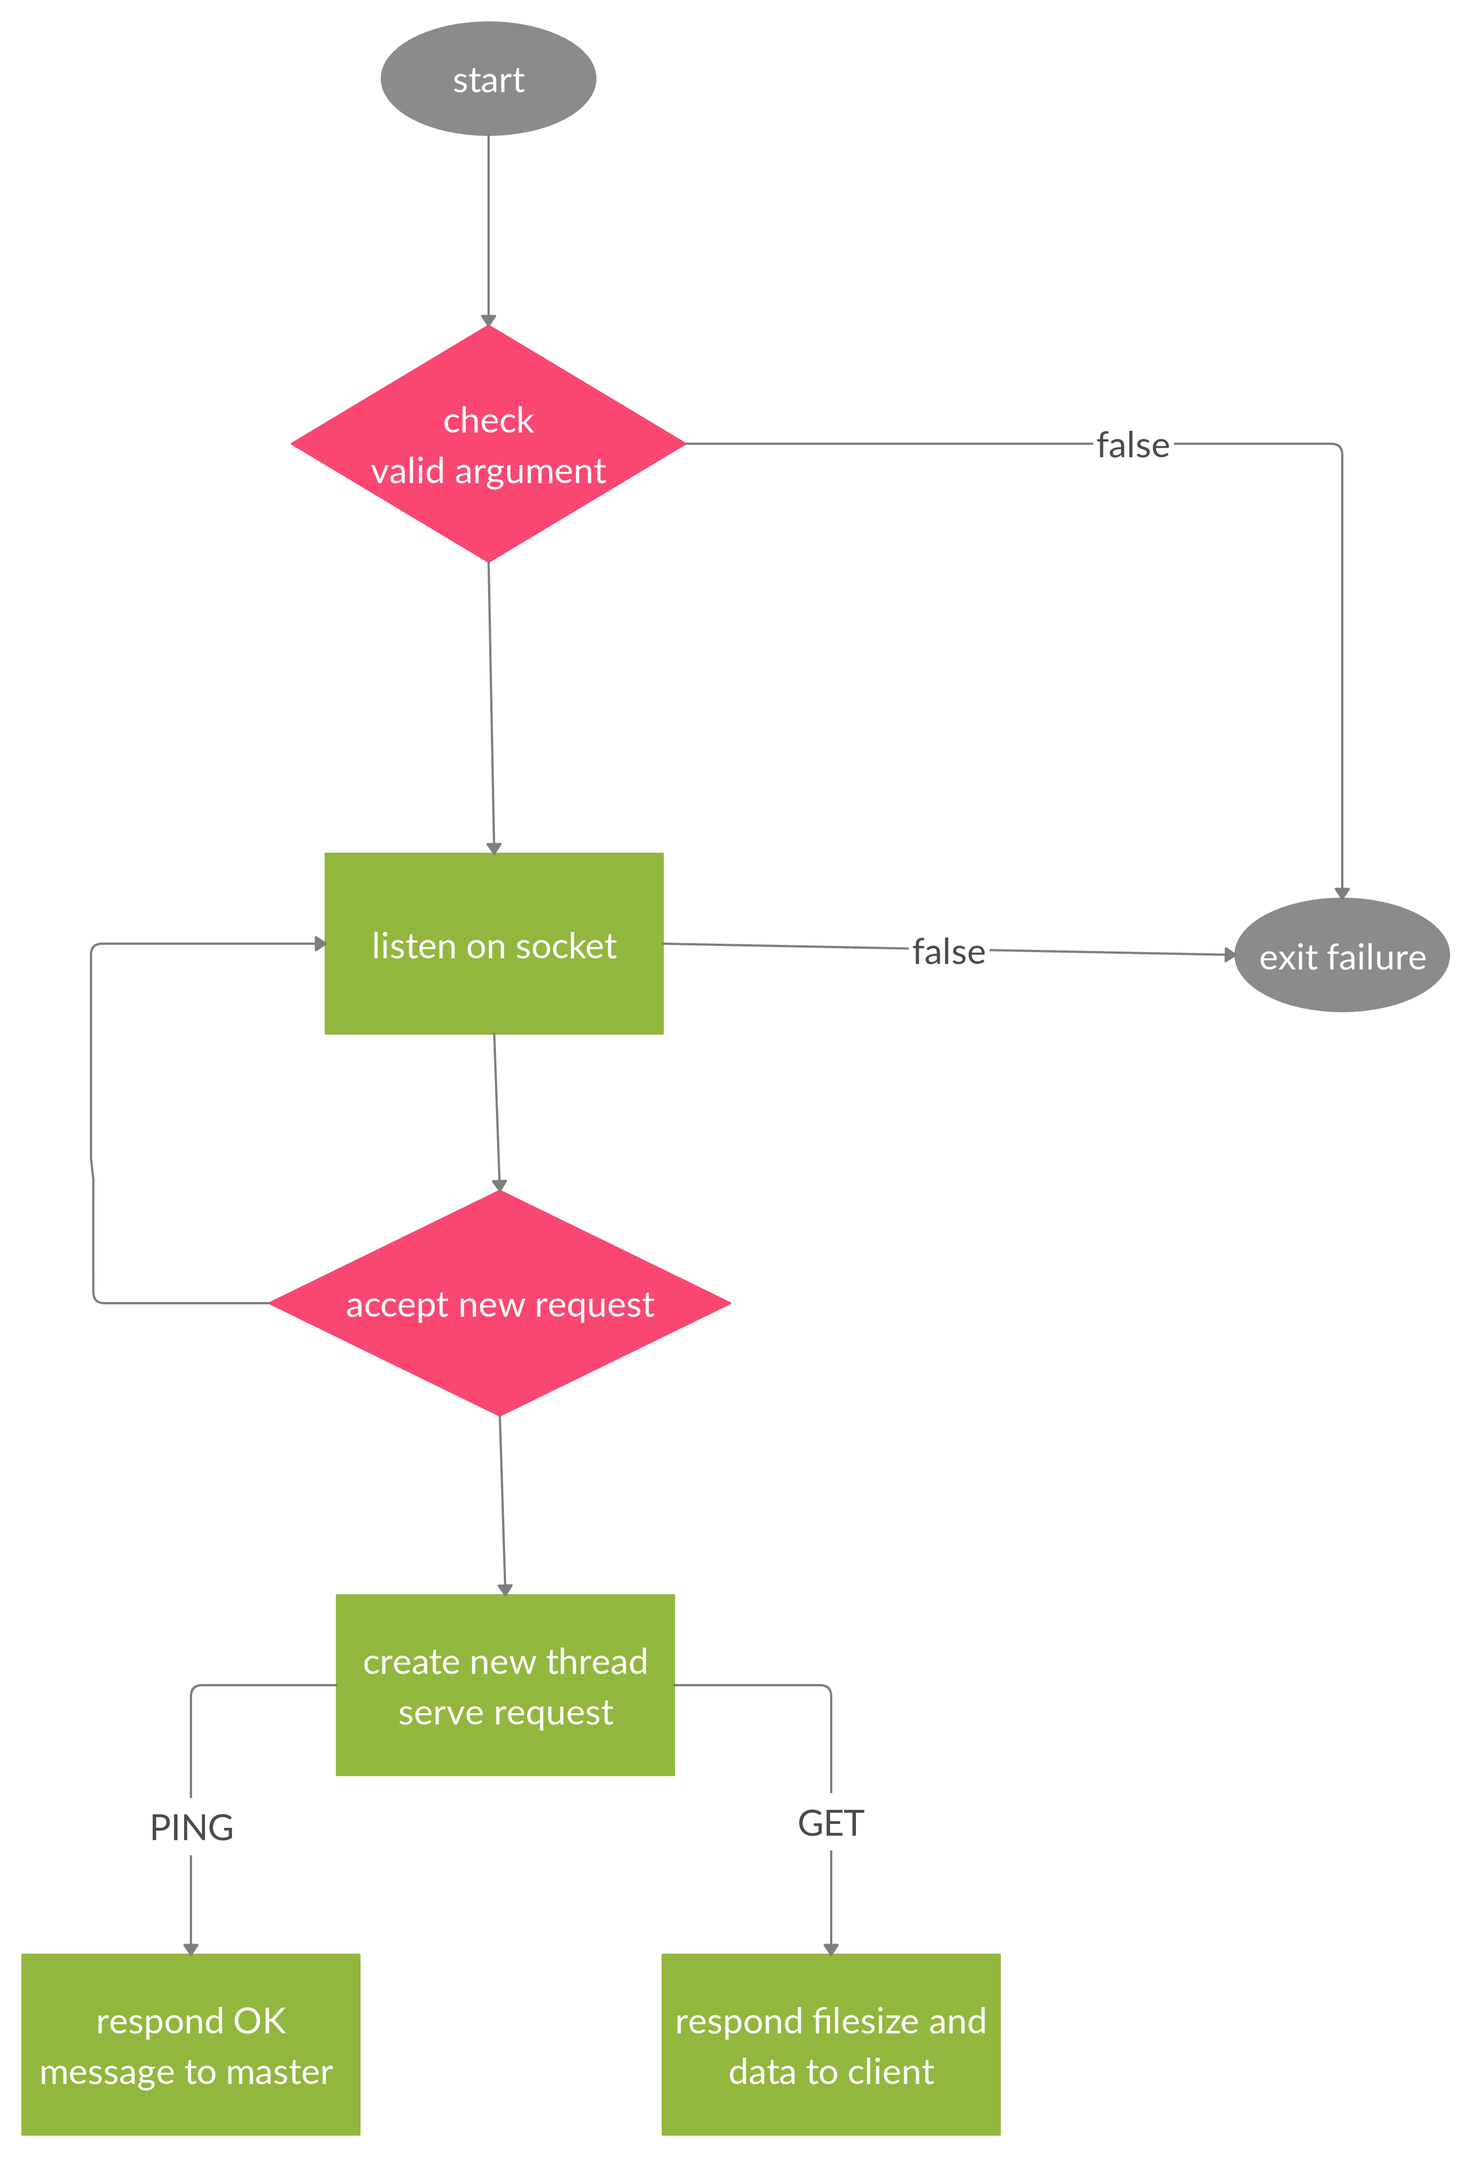
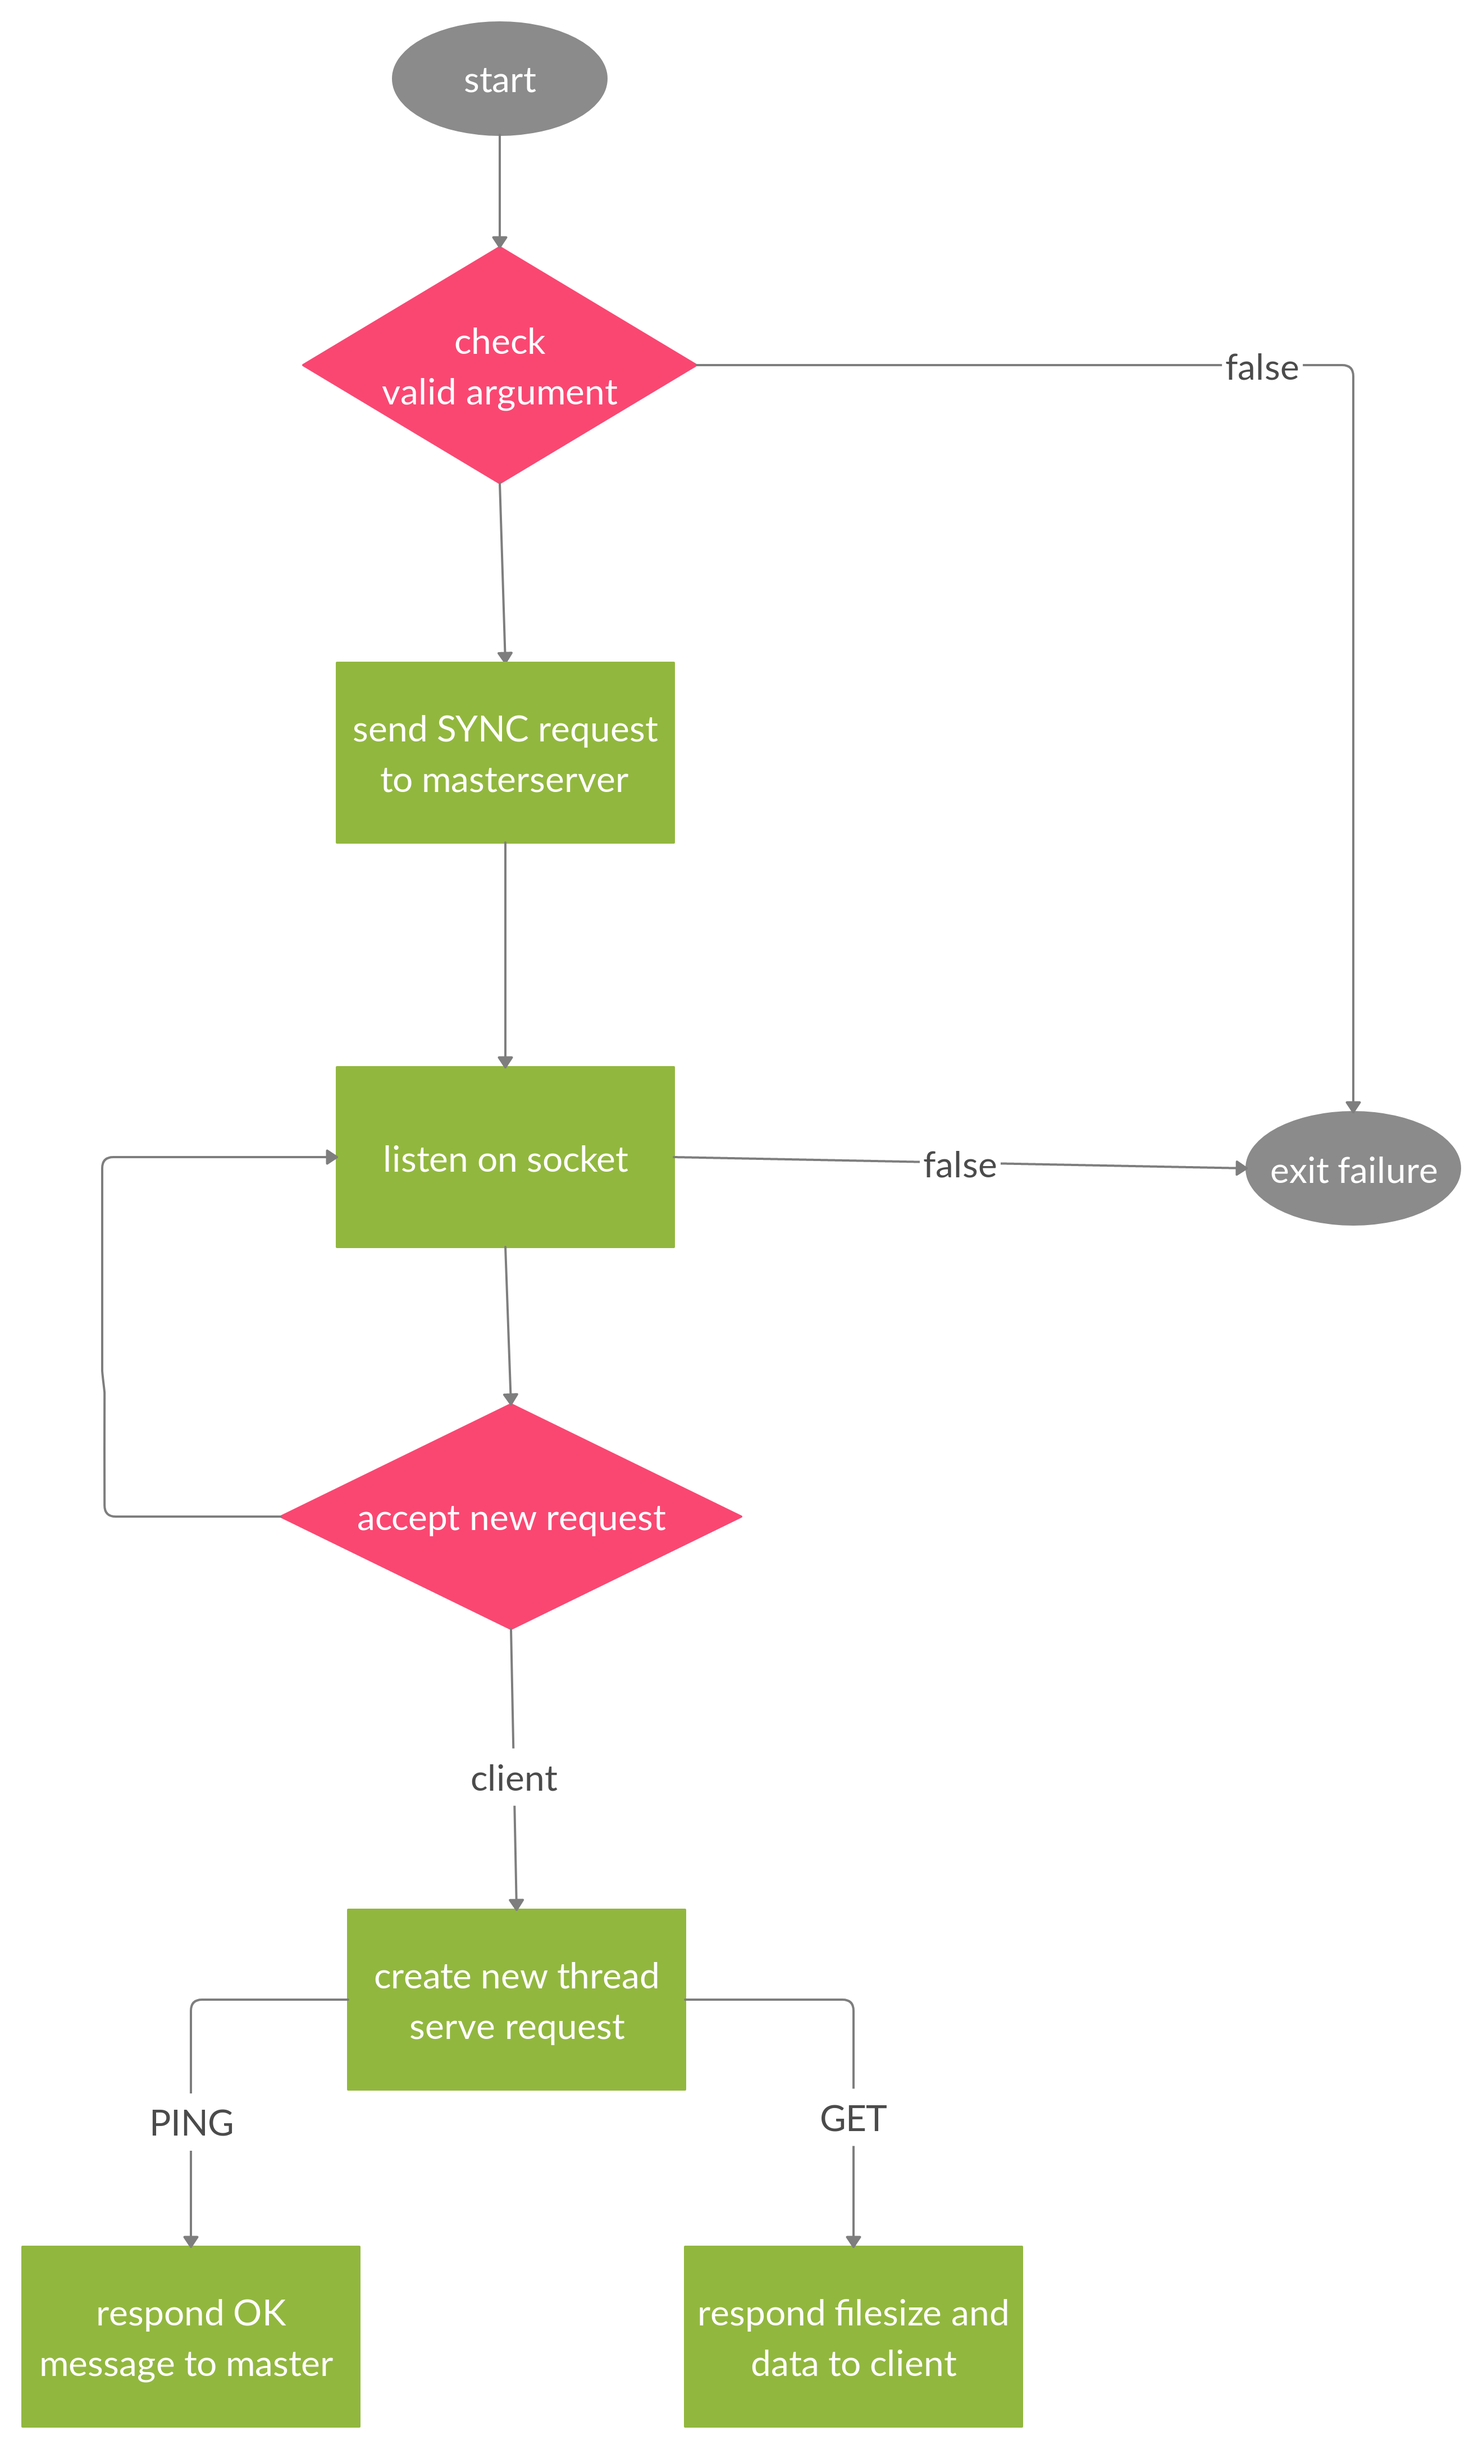
add architecture detail, explain workflow

diff --git a/fileserver-master-client-file-transfer/README.md b/fileserver-master-client-file-transfer/README.md
@@ -72,6 +72,17 @@ Thành viên nhóm
 
 ![](images/master-fileserver-client.png)
 
+- **Centralize**
+  - Xử lí tập trung, toàn bộ thông tin về  file được lưu trên master server
+  - Client connect đến master để lấy IP PORT fileserver sau đó kết nối đến để lấy data, các fileserver phân tán ở mọi nơi (scalable), tránh trường hợp masterserver bị quá tải
+  - Client có thể lấy danh sách toàn bộ các file đang được lưu thông tin trên master  
+- **Multithreading**
+  - Đồng bộ danh sách các node fileserver (linked list) bằng mutex (multithread thêm xóa sửa trên critical section)
+  - Masterserver, fileserver có khả năng xử lí nhiều request 1 lúc
+  - Client sử dụng multithread tạo nhiều connection => có khả năng tải nhiều file cùng 1 lúc
+- **check keep alive**
+  - Masterserver sử dụng 1 thread chạy vòng lặp sau mỗi 2s, gửi PING request đến ip và port, check heartbeat của từng fileserver trong list, nếu bị mất kết nối sẽ xóa fileserver ra khỏi list 
+
 ### 3.2. Thiết kế giao thức
 
 #### 3.2.1. PING method
@@ -82,7 +93,7 @@ Thành viên nhóm
 
 ![](images/SYNC.png)
 
-#### 3.2.3. INFO pmethod
+#### 3.2.3. INFO method
 
 ![](images/INFO.png)
 
@@ -97,22 +108,41 @@ Thành viên nhóm
 ### 3.3. Chi tiết vận hành
 
 #### 3.3.1 Master
-<<<<<<< HEAD
 ![](images/master-workflow.png)
+- Fileserver nhận tham số dòng lệnh, lấy thông tin port và thư mục sẽ lưu thông tin fileserver
+- Tạo list_fs (list fileserver) là một linked list
+- tạo 1 thread dùng để check connection của từng fileserver trong list_fs
+- Tạo socket, listen trên port đã xác định
+- Nhận request, tạo 1 thread detach khỏi main thread để phục vụ:
+  - Nếu là SYNC request, add fileserver vào list_fs, tạo thư mục định dạng là IP_PORT để chứa danh sách các file
+  - Nếu là INFO request, trả về client thông tin các fileserver tương ứng với danh sách file
+  - Nếu là LIST request, lấy toàn bộ thông tin các fileserver cùng với filename tương ứng trả về cho client
+
 #### 3.3.2 Fileserver
 ![](images/fileserver-workflow.png)
+- Fileserver nhận tham số dòng lệnh, lấy thông tin port sẽ listen, master ip port và thư mục sẽ chia sẻ file
+- Tạo socket, bind, listen trên port đã xác định
+- Gửi SYNC request đến master server để đồng bộ file, cấu trúc là thông tin IP_PORT cùng với danh sách các file cần đồng bộ
+- Nhận request, tạo 1 thread detach khỏi main thread để phục vụ:
+  - Nếu là masterserver PING thì respond OK
+  - Nếu là client GET thì trả về filesize cùng với data, trường hợp ko tìm thấy file trả về FNF (file not found) 
+
 #### 3.3.3 Client
 ![](images/client-workflow.png)
----
-=======
+- Client nhận tham số dòng lệnh từ user, lấy thông tin master server ip, port và danh sách các file cần tải
+- Client nhận thông tin các fileserver, tạo nhiều thread (connection) để tải từng file
+- Sau khi các thread đã tải xong, join thread và kết thúc chương trình 
 
-#### 3.3.2 Fileserver
-
-#### 3.3.3 Client
-
->>>>>>> d0e7aa3ded49374929c348b77e8d9ac3bffbf0b8
 ## 4. Usage
 
 ## 5. Demo
 
 ## 6. Tham khảo
+- https://dev.to/mattcanello/multithreaded-programming-lmh
+- http://www.kegel.com/c10k.html#strategies
+- https://linux.die.net/man/2/setsockopt
+- https://www.geeksforgeeks.org/mutex-lock-for-linux-thread-synchronization/
+- http://www.cs.kent.edu/~ruttan/sysprog/lectures/multi-thread/multi-thread.html
+- https://stackoverflow.com/questions/612097/how-can-i-get-the-list-of-files-in-a-directory-using-c-or-c
+- https://stackoverflow.com/questions/4553012/checking-if-a-file-is-a-directory-or-just-a-file
+- https://www.cs.rpi.edu/~moorthy/Courses/os98/Pgms/socket.html
